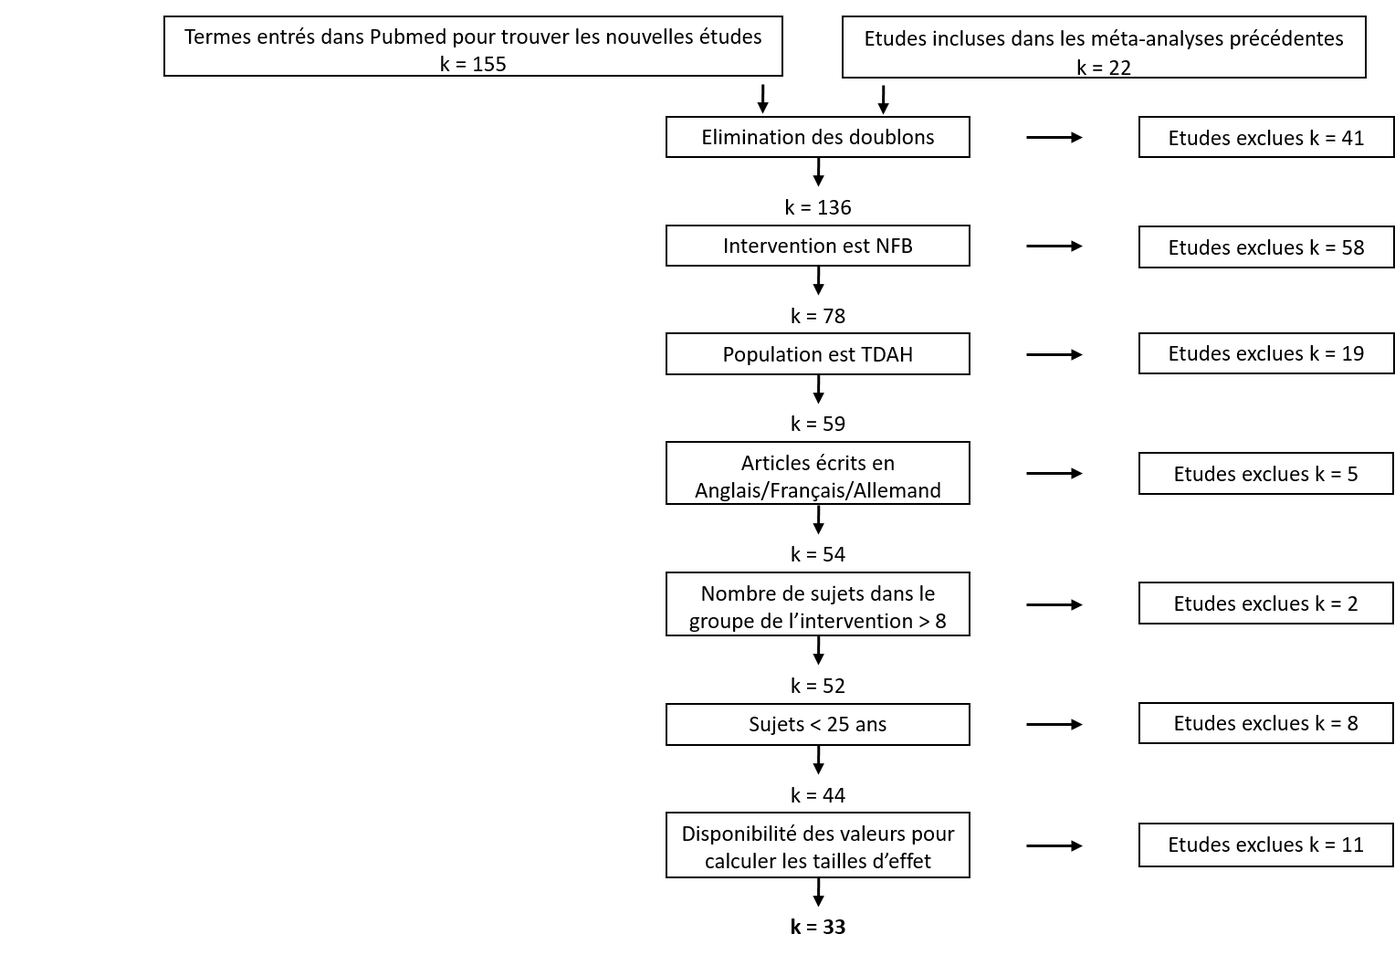
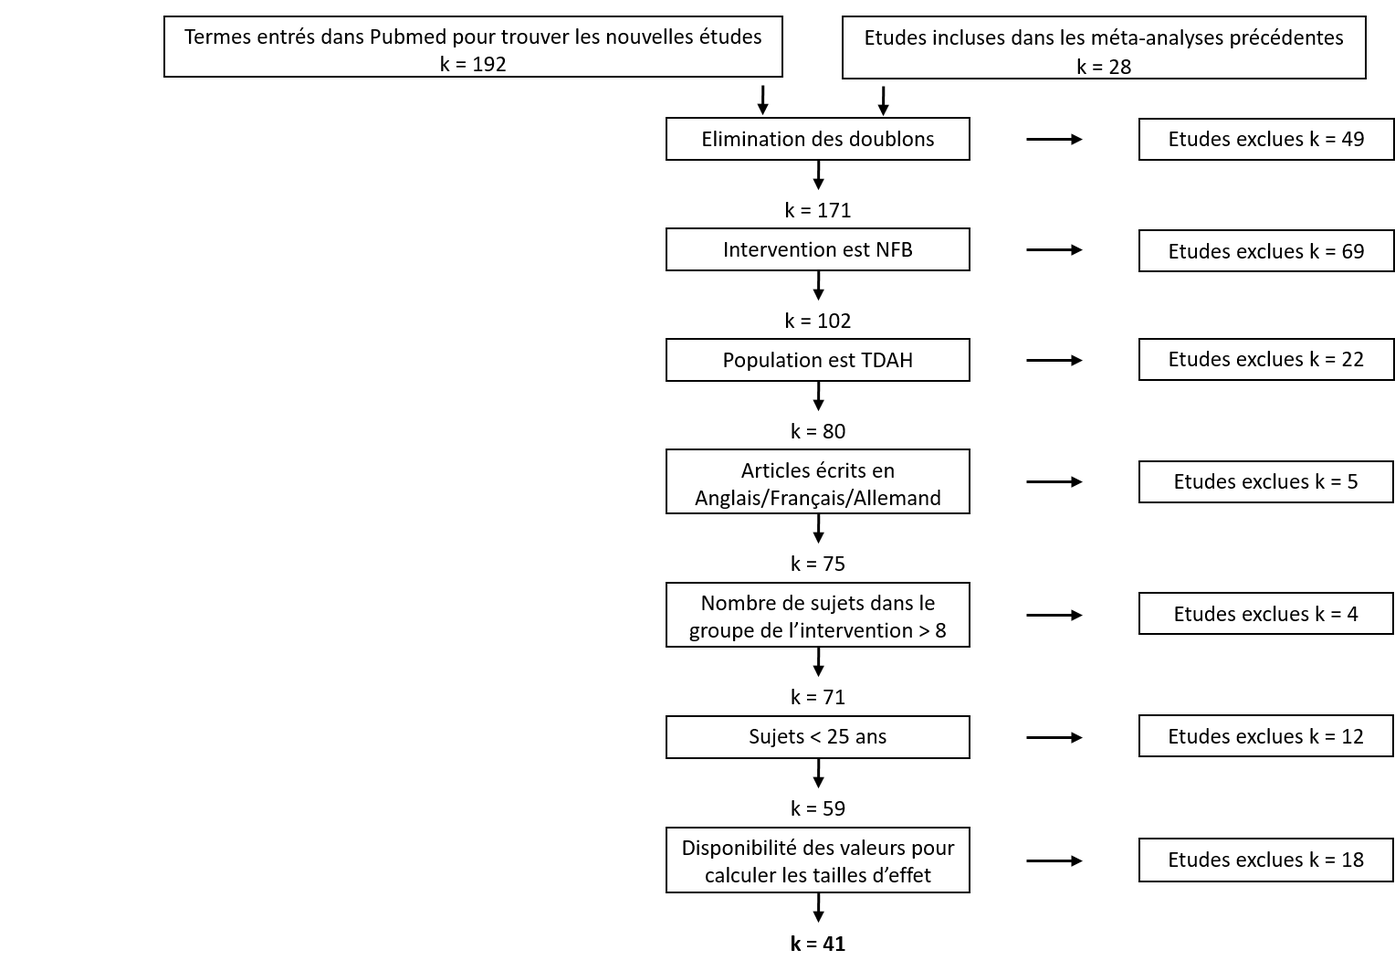
methods updated

diff --git a/chapter_3.tex b/chapter_3.tex
@@ -23,8 +23,8 @@ suivant les étapes décrites en \ref{preprocessing}.
 \subsection{Choix des facteurs} \label{choix_des_facteurs}
 
 Tout d'abord, une revue de littérature et des discussions avec des experts du \gls{nfb} appliqué aux enfants \gls{tdah}, en particulier le Dr. Jean-Arthur Micoulaud Franchi
-et le Dr. Louis Mayaud, ont permis de déterminer les facteurs dont il serait intéressant d'étudier l'influence \citep{Vernon2004, Arns2009, Arns2014, Cortese2016, Enriquez2017}. Ces facteurs sont, pour
-la plupart, spécifiques à l'entrainement par \gls{nfb} et sont définis avec plus de précision en \ref{principe_nfb}.
+et le Dr. Louis Mayaud, ont permis de déterminer les facteurs dont il serait intéressant d'étudier l'influence \citep{Vernon2004, Arns2009, Arns2014, Cortese2016, Enriquez2017}. Les facteurs 
+spécifiques à l'entrainement par \gls{nfb} sont définis avec plus de précision en \ref{principe_nfb}.
 
 Les paramètres ayant une possible influence sur l'efficacité perçue du \gls{nfb} ont été répartis en cinq catégories :
 \renewcommand{\labelitemi}{$\bullet$}
@@ -38,6 +38,8 @@ Les paramètres ayant une possible influence sur l'efficacité perçue du \gls{n
     \end{itemize}
 Ces paramètres ne sont pas spécifiques de l'entrainenement par \gls{nfb} mais pourraient avoir une influence sur les résultats.
 En effet, \citet{Ros2019} appellent notamment à employer un groupe contrôle et à avoir recours à des évaluateurs aveugles afin d'améliorer la qualité des études.
+Le fait qu'une étude soit validée par un \gls{irb} rend compte de la qualité de l'implémentation méthodologique : les études dépourvues d'un \gls{irb} sont
+condidérées d'une qualité moindre et donc plus sujettes aux divers biais d'implémentation.  
 \item \emph{la population :} 
     \begin{itemize}
     \item la prise de psychostimulants durant le traitement par \gls{nfb}, 
@@ -45,8 +47,8 @@ En effet, \citet{Ros2019} appellent notamment à employer un groupe contrôle et
 		\item la sévérité des symptômes du TDAH à pré-test (score clinique à pré-test divisé par le score maximal à atteindre sur l'échelle clinique), 
 		\item le degré d'engagement dans l'entrainement par \gls{nfb} (observance thérapeutique et ressenti vis à vis du traitement).
     \end{itemize}
-Certaines de ses caractéristiques ont déjà été étudiées, en particulier l'impact de la prise de psychostimulants durant l'entrainement par \gls{nfb} dans
-\citet{Cortese2016} et ses mises à jour (\citep{Bussalb2019clinical} et celle en \ref{selection_studies}) et également discuté par \citet{VanDoren2017}.
+Certaines de ses caractéristiques ont déjà été indivividuellement étudiées, en particulier l'impact de la prise de psychostimulants durant l'entrainement par \gls{nfb} dans
+\citet{Cortese2016} et ses mises à jour (\citep{Bussalb2019clinical} et celle en \ref{selection_studies}) et également discutées par \citet{VanDoren2017}.
 \item \emph{l'implémentation du \gls{nfb} :} 
     \begin{itemize}
     \item le protocole utilisé (\gls{scp}, \gls{smr}, l'augmentation du rythme theta, l'augmentation du rythme beta dans les aires centrale ou frontale 
@@ -104,7 +106,7 @@ comme valide notamment au niveau de la normalisation des variables et de la vali
 Les auteurs des études incluses dans la \gls{saob} ne précisent pas systématiquement toutes les valeurs des facteurs, ce qui conduit à des observations manquantes. 
 Afin que les paramètres pour lesquels peu d'observations sont disponibles ne faussent l'analyse, il est apparu raisonnable de considérer qu'au-delà de 20\%
 d'observations manquantes ce paramètre est exclu. Les observations manquantes dans les facteurs comportant des valeurs numériques sont 
-imputées et remplacées par -1.
+imputées et remplacées par -1 pour la méthode du \gls{dt} et par la moyenne des valeurs du facteur pour la \gls{wls} et le \gls{lasso} décrits en \ref{saob_method}. 
 
 Par ailleurs, comme cette analyse tire avantage de l'hétérogénéité des études, si un facteur a plus de 80\% d'observations identiques, 
 celui-ci est également rejeté. 
@@ -149,17 +151,29 @@ de tous les \gls{es}-intra-groupe calculés ont été retirées de l'analyse \ci
 
 Par la suite, l'ensemble des \gls{es}-intra-groupe est considéré comme la variable dépendante que les variables indépendantes (les facteurs) vont expliquer. 
 
-\subsection{L'analyse systématique des biais}
+\subsection{L'analyse systématique des biais} \label{saob_method}
 
 La \gls{saob} comporte trois méthodes qui ont été implémentées à l'aide des bibliothèques Python Scikit-Learn \citep[version 0.18.1]{Pedregosa2011} et Statsmodels \citep[version 0.8.0]{Seabold2010} : 
 \begin{itemize}
-  \item une régression linéaire multiple et pondérée (\gls{wls} en anglais) \citep{Montgomery2012},
-	\item une régression linéaire régularisée (\gls{lasso} en anglais) \citep{Tibshirani1996},
-	\item un arbre de décision de régression (\gls{dt} en anglais) \citep{Quinlan1986}.
+    \item une régression linéaire multiple et pondérée (\gls{wls} en anglais) \citep{Montgomery2012},
+	  \item une régression linéaire régularisée (\gls{lasso} en anglais) \citep{Tibshirani1996},
+	  \item un arbre de décision de régression (\gls{dt} en anglais) \citep{Quinlan1986}.
 \end{itemize}
+
+La \gls{wls} a été choisie car son équivalent non pondéré (l'\gls{ols}) est très connue car couramment utilisée. Par ailleurs, cette méthode est très proche de la méta-régression qui est 
+parfois mise en place dans les méta-analyses pour quantifier la relation entre une variable indépendante et une variable dépendante \citep{Cortese2016, Borenstein2009}. 
+
+Le \gls{lasso} est également une régression mais permet de sélectionner clairement les variables indépendantes ayant une influence sur la variable dépendante. 
+
+Enfin, une méthode non linéaire, le \gls{dt} de regression, est employée car elle permet d'ordonner les variables indépendantes selon leur influence sur la variable dépendante. 
+Par ailleurs, un seuil de décsion est calculé, ce qui permet d'avoir une idée de la valeur à partir de laquelle le facteur a une influence positive sur l'efficacité du \gls{nfb}.
 
 Les résultats de ces trois méthodes intrinsèquement différentes vont être combinés : si un facteur est identifié par les trois méthodes, alors son influence sur l'efficacité du 
 \gls{nfb} est plus probable que si une seule méthode l'identifie. 
+
+Il a été décidé d'utiliser trois méthodes car celles choisies sont suffisammment différentes pour mener à des conclusions intéressantes : si malgré leurs dissimilitudes 
+elles sont d'accord sur l'influence d'un facteur alors on peut raisonnablement conclure que cette influence est fortement probable. Il aurait été possible
+d'avoir recours à plus de méthodes mais étant donné l'aspect novateur de cette approche, il semblait préférable de ne pas complexifier le message en utilisant trop de méthodes.
 
 \subsubsection{La régression linéaire multiple et pondérée}
 La régression linéaire a pour but d'estimer les coefficients de régression qui lient les facteurs aux \gls{es}-intra-groupe. Ici, la régression est pondérée pour, d'une part, 
@@ -177,37 +191,111 @@ Mathématiquement, la \gls{wls} se traduit ainsi :
 \label{eq:factors_model_WLS}
 \textbf{W}y = \textbf{WX}\beta + \epsilon.
 \end{equation}
-$\textbf{X}$ est une matrice inversible $(n \times p)$ et représente $n$ observations sur chaque $p-1$ variable indépendante et l'intercept, 
-$\beta$ est un vecteur $(p \times 1)$ des coefficients de régression associés, $\textbf{W}$ est une matrice diagonale $(n \times n)$  
+$\textbf{X}$ est une matrice inversible $(n \times q)$ et représente $n$ observations sur chaque $p$ variable indépendante et l'intercept ($q = p + 1$), 
+$\beta$ est un vecteur $(q \times 1)$ des coefficients de régression associés et l'intercept, $\textbf{W}$ est une matrice diagonale $(n \times n)$  
 des poids $w_{i}$, $y$ est un vecteur $(n \times 1)$ des variables dépendantes et $\epsilon$ est un vecteur $(n \times 1)$ d'erreurs.
 
 Le but de la \gls{wls} est d'estimer le vecteur de coefficients $\beta$ en minimisant la somme pondérée des carrés des résidus (\gls{wrss} en anglais) :
 \begin{equation}
 \label{eq:factors_WRSS}
-\text{WRSS} = \sum_{i=1}^{n} w_i \Big(y_i - \beta_{0} - \sum_{j=1}^{p}\beta_{j}x_{ij}\Big)^2.
+\text{WRSS} = \sum_{i=1}^{n} w_i \Big(y_i - \hat{y}_i\Big)^2, 
 \end{equation}
+avec $\hat{y}_i = \beta_{0} + \sum_{j=1}^{p}\beta_{j}x_{ij}$, les valeurs prédites.
 
 Une fois le vecteur $\beta$ estimé, on cherche à savoir si les hypothèses du modèle sont vérifiées : 
 \begin{itemize}
-	\item la matrice ${\textbf{X}}^{T}\textbf{W}^{T}\textbf{WX}$ est régulière,
-  \item aucune corrélation apparente n'est trouvée entre les variables indépendantes non catégorielles, 
-  \item la tendance linéaire estimée est trouvée significative en se basant sur la statistique F,
-  \item les résidus sont distribués normalement en se basant sur le kurtosis et le test Omnibus.
+    \item la matrice ${\textbf{X}}^{T}\textbf{W}^{T}\textbf{WX}$ est régulière (c'est à dire qu'elle est inversible : il existe une matrice \textbf{B} appelée matrice inverse de 
+		${\textbf{X}}^{T}\textbf{W}^{T}\textbf{WX}$ telle que B = $({\textbf{X}}^{T}\textbf{W}^{T}\textbf{WX})^{-1}$),
+    \item la tendance linéaire estimée est trouvée significative en se basant sur la statistique F,
+    \item les résidus sont distribués normalement en se basant sur l'asymétrie (\textit{skewness} en anglais), le Kurtosis et le test Omnibus.
 \end{itemize} 
 
+La statistique F est le résultat du test statistique où l'hypothèse nulle est que tous les coefficients de régression sont égaux à 0. Ce test est effectué en calculant 
+la statistique F \citep{James2013} :
+
+\begin{equation}
+\label{eq:factors_statistic_F}
+\text{F} = \frac{ (\text{WTSS} - \text{WRSS}) / p }{ \text{WRSS} /(n - p - 1) }, 
+\end{equation}
+avec $\text{WTSS} = \sum_{i=1}^{n} w_i(y_i - \bar{y})^2$, la somme totale des carrés des résidus (\gls{wtss} en anglais) et $\bar{y}$ la moyenne 
+pondérée par les $w_i$ des $y_i$. 
+
+La p-value associée à la statistique F est calculée à partir de la F-distribution, qui est une distribution de probabilités de la statistique F, obtenue si $H_{0}$ 
+est vraie et si les résidus sont distribués normalement.
+
+Afin de déterminer si les résidus sont distribués normalement, la \textit{skewness}, le Kurtosis et le test Omnibus sont utilisés \citep{dagostino1973, dagostino1971, Bowman1975}.
+
+La \textit{skewness} $\gamma$ rend compte d'à quel point la forme générale d'une distribution diffère de celle d'une distribution normale : 
+\begin{equation}
+\label{eq:factors_skewness}
+\kappa = E \Big[ \Big(\frac{ Y - \mu }{ \sigma }\Big)^{3} \Big], 
+\end{equation}
+avec $E$ la valeur attendue, $Y$ la variable aléatoire, $\mu$ la moyenne de la population et $\sigma$ l'écart-type de la population.
+
+La \textit{skewness} d'une distribution normale vaut 0.
+
+En pratique, la \textit{skewness} est estimée dans la population en calculant la \textit{skewness} pour un échantillon. On suppose alors
+que la variable aléatoire est distribuée uniformément :
+
+\begin{equation}
+\label{eq:factors_skewness_estimation}
+g_{1} = \frac{ \mu_{3} } {s^3},
+\end{equation}
+avec $\mu_{3}$ le troisième moment central de l'échantillon et $s$ l'écart-type de l'échantillon.
+
+Le Kurtosis $\kappa$ quantifie à quel point les formes des queues de la distribution diffèrent par rapport à une distribution normale :
+\begin{equation}
+\label{eq:factors_kurtosis}
+\kappa = E \Big[ \Big(\frac{ Y - \mu }{ \sigma }\Big)^{4} \Big], 
+\end{equation}
+avec $E$ la valeur attendue, $Y$ la variable aléatoire, $\mu$ la moyenne de la population et $\sigma$ l'écart-type de la population.
+
+Le Kurtosis d'une distribution normale est de 3, cependant le Kurtosis est parfois exprimé en tant qu'excès de Kurtosis :
+\begin{equation}
+\label{eq:factors_kurtosis_excess}
+g_{2} = \frac{ \mu_{4} } {s^4}, 
+\end{equation}
+avec $\mu_{4}$ le troisième moment central de l'échantillon et $s$ l'écart-type de l'échantillon.
+
+Ainsi, avec les valeurs de kurtosis et de skewness on peut quantifier d'à quel point la distribution des résidus diffère 
+d'une distribution normale. Afin de savoir si cette différence est significative, le test Omnibus peut être utilisé. 
+
+Ce test se base sur les valeurs de la \textit{skewness} et le Kurtosis pour tester l'hypothèse $H_{0}$ qui est que les résidus sont distribués normalement.
+Pour ce faire, il regroupe les variables aléatoires pour la \textit{skewness} et le Kurtosis en un seul test statistique :
+\begin{equation}
+\label{eq:factors_omnibus_statistic}
+K = Z_{1}(g_{1})^2 + Z_{2}(g_{2})^2, 
+\end{equation}
+avec $K$ la statistique du test Omnibus, $g_{1}$ la variable aléatoire de la \textit{skewness} et
+$g_{2}$ la variable aléatoire de l'excès de Kurtosis, et $Z_{1}$ et $Z_{2}$ des fonctions de transformation qui ont pour but de rendre 
+les distributions de $g_{1}$ et $g_{2}$ normales.
+
 Si toutes ces hypothèses sont satisfaites, alors les résultats de la \gls{wls} peuvent être interprétés. A l'aide d'un t-test, on détermine  
-parmi les coefficients $\beta_{j}$ où $1<j<p$, ceux qui sont significativement différent de 0 (avec un seuil de significativité égal à 0.05) : 
+parmi les coefficients $\beta_{j}$ où $1<j<p$, ceux qui sont significativement différent de 0 (avec un seuil de signifiance de 5\%) : 
 pour ces coefficients, le facteur qui leur est associé est supposé avoir une influence sur l'efficacité du \gls{nfb}. Par ailleurs, 
 le signe du coefficient indique si cette influence est positive ou négative. 
 
 Etant donné le nombre important de variables indépendantes, le pourcentage de variance estimée par la \gls{wls} est quantifié par le coefficient de 
-détermination ajusté (\textit{adjusted R-Squared} en anglais) plutôt que par le coefficient de détermination simple (\textit{R-Squared} en anglais).
+détermination ajusté, $R^2_{adjusted}$ (\textit{adjusted R-Squared} en anglais) plutôt que par le coefficient de détermination simple $R^2$ (\textit{R-Squared} en anglais)
+définis respectivement aux équations Eq.~(\ref{eq:factors_R_squared}) et Eq.~(\ref{eq:factors_adjusted_R_squared}) du fait du nombre important de variables indépedantes \citep{James2013}.
+\begin{equation}
+\label{eq:factors_R_squared}
+R^2 = \frac{ \text{WTSS} - \text{WRSS} }{ \text{WTSS} }, 
+\end{equation}
+
+\begin{equation}
+\label{eq:factors_adjusted_R_squared}
+R^2_{adjusted} = 1 - \frac{ (1 - R^2) (n - 1) }{ n - p - 1 }, 
+\end{equation}
+avec $n$ le nombre d'observations et $p$ le nombre de variables indépendantes.
+
 
 Une régression linéaire ordinaire (\gls{ols} en anglais) est aussi mise en place pour observer l'impact des poids sur les résultats. 
 
 \subsubsection{La régression linéaire régularisée}
 
 La deuxième méthode appliquée lors de la \gls{saob} est le \gls{lasso} qui intègre la sélection de variables dans le modèle linéaire grâce à la norme $\ell_1$ appliquée aux coefficients.
+La norme $\ell_1$ est préférable ici à la norme $\ell_2$ utilisée dans la régression de Ridge \citep{James2013} car elle peut mettre des coefficients à 0. 
 Les coefficients $\hat{\beta}_{j}$ ($1<j<p$) sont obtenus en minimisant le coût :
 \begin{equation}
 \label{eq:factors_lasso-minimization}
@@ -216,11 +304,22 @@ Les coefficients $\hat{\beta}_{j}$ ($1<j<p$) sont obtenus en minimisant le coût
 où $\lambda$ est le paramètre de régularisation qui, en augmentant, met de plus en plus de coefficients à 0. 
 
 Le paramètre de régularisation optimal est déterminé par une validation croisée \textit{leave-one-out}. Cette méthode prend une seule observation 
-comme donnée de test pour la validation, laissant $n-1$ observations pour les données d'entraînement. Le processus de la validation croisée est ensuite répété $n$ fois pour que chaque observation 
-soit utilisée exactement une fois comme donnée de test. Pour chaque itération, appelée \textit{fold} en anglais, l'erreur quadratique moyenne (\gls{mse} en anglais) est calculée sur les données de test
+comme donnée de test pour la validation, laissant $n - 1$ observations pour les données d'entraînement. Le processus de la validation croisée est ensuite répété $n$ fois pour que chaque observation 
+soit utilisée exactement une fois comme donnée de test. 
+
+Pour chaque itération, appelée \textit{fold} en anglais, l'erreur quadratique moyenne (\gls{mse} en anglais) définie à l'équation Eq.
+~(\ref{eq:factors_mse}) est calculée sur les données de test
 puis les $n$ résultats sont moyennés pour mener à une seule observation qui permet de trouver le $\lambda$ optimal. Celui-ci correspond à l'abscisse du minimum de la \gls{mse} 
-du \textit{fold} moyen calculée sur un large intervalle de $\lambda$ \citep{James2013}.
-Un coefficient non mis à 0 signifie que le facteur associé pourrait avoir une influence sur l'efficacité du \gls{nfb} et, ici aussi, le signe du coefficient indique la direction de l'effet. 
+du \textit{fold} moyen calculée sur un large intervalle de $\lambda$ \citep{James2013}. 
+
+\begin{equation}
+\label{eq:factors_mse}
+\text{MSE} = \frac{1}{n}\sum_{i=1}^{n} \Big(\hat{y}_i - {y}_i\Big)^2,
+\end{equation}
+avec $\hat{y}$ les valeurs prédites.
+
+Un coefficient non mis à 0 signifie que le facteur associé pourrait avoir une influence sur l'efficacité du \gls{nfb} et, ici aussi, 
+le signe du coefficient indique la direction de l'effet.
 
 \subsubsection{L'arbre de décision de régression}
 
@@ -228,18 +327,13 @@ La troisième et dernière méthode utilisée est le \gls{dt} de régression qui
 linéaire \citep{Quinlan1986}. Elle divise l'ensemble des observations en sous-ensembles de plus en plus petits en se basant sur la présence 
 d'une variable qualitative ou sur la comparaison à un seuil appliqué à une variable quantitative. La position de la variable indépendante utilisée (et le
 choix du seuil de comparaison dans le cas d'une variable quantitative) pour subdiviser l'ensemble des données est déterminée de façon à minimiser la
-\gls{mse} définie comme suit :
-
-\begin{equation}
-\label{eq:factors_decision_tree_mse}
-\text{MSE} = \frac{1}{n}\sum_{i=1}^{n} \Big(\hat{y}_i - {y}_i\Big)^2,
-\end{equation}
-avec $\hat{y}$ les valeurs prédites.
+\gls{mse} définie à l'équation Eq.~(\ref{eq:factors_mse}) :
 
 La première variable utilisée pour diviser l'ensemble des données se situe dans le noeud racine (\textit{root node} en anglais), les autres
 variables qui mènent à une nouvelle subdivision sont dans des noeuds, et les noeuds où la division s'arrête sont appelés
 feuilles (\textit{leaf nodes}) de l'arbre. La profondeur de l'arbre peut être définie par le nombre d'observations minimal nécessaire
-pour diviser un sous ensemble. Un arbre exemple est schématisé à la Figure~\ref{Figure:factors_decision_tree_example}.
+pour diviser un sous-ensemble. Ce critère a été utilisé ici de façon arbitraire : un noeud comportant moins de 10\% d'observations devient une feuille. 
+Un arbre exemple est schématisé à la Figure~\ref{Figure:factors_decision_tree_example}.
 
 \begin{figure}[h!]
   \centering
@@ -255,13 +349,15 @@ les facteurs se retrouvent dans les noeuds : leur influence sur l'efficacité du
 obtenue après chaque division mais aussi par leur place dans l'arbre. En effet, plus un facteur est en haut de l'arbre plus les divisions se font sur un grand nombre
 d'observations, ainsi son impact sur l'efficacité est davantage probable.
 
-\section{Analyse des facteurs influençant le Neurofeedback} %update avec dernière analyse
+\section{Analyse des facteurs influençant le Neurofeedback} 
 
 Les résultats de la \gls{saob} sont présentés ici. Cette méthode, dont les premières étapes (i.e. la sélection des études et le calcul des \gls{es}) rappellent
 la méta-analyse, se distingue de cette dernière par l'utilisation de méthodes multivariées. Celles-ci tirent avantage de l'hétérogénéité des études
 sur le \gls{nfb} appliqué aux enfants \gls{tdah} pour déterminer les facteurs ayant un impact sur la performance du \gls{nfb}.
 
 \subsection{Sélection des études} \label{selection_studies}
+
+\subsubsection{Méthode de sélection}
 
 Les termes entrés dans Pubmed pour la recherche des articles à inclure dans la \gls{saob} sont :
 (ADHD OR adhd OR attention deficit disorder with hyperactivity OR minimal brain disorders OR syndrome hyperkinetic OR hyperkinetic
@@ -272,17 +368,29 @@ attention deficit disorder OR hyperkinetic syndromes OR syndromes hyperkinetic O
 (randomized control trial OR RCT OR randomized control study OR Pilot Study OR Study OR Trial OR randomized trial) AND 
 (neurofeedback OR “EEG biofeedback” OR neurotherapy OR SCP OR “slow cortical potentials” OR Theta Beta Ratio OR “TBR”). 
 
-La dernière recherche effectuée le 12 février 2018 avec ces termes a retourné 155 résultats, auxquels se sont ajoutés 22 articles inclus dans les précédentes 
-méta-analyses sur le \gls{nfb} appliqué aux enfants \gls{tdah} \citep{Arns2009, Sonuga-Barke2013, Micoulaud2014, Cortese2016, Catala2017}. Afin de sélectionner
-les études à inclure dans la \gls{saob}, les 177 résultats ont été filtrés à l'aide du pipeline représenté à la 
-Figure~\ref{Figure:factors_pipeline_selection_studies}. Au final $k$ = 33 études ont été retenues, qui correspondent par ailleurs au critère d'inclusion de
+Cette recherche est proche de celle conduite dans le \ref{chapitre-2} lors de la mise à jour de la méta-analyse de \citet{Cortese2016} à la différence
+qu'ici aucun terme ne porte sur les groupes contrôles. En effet, alors que \citet{Cortese2016} n'incluait que des \gls{rct} avec des exigences précises
+sur les groupes contrôles énoncées en \ref{selection_studies}, la \gls{saob} inclut les études sur le \gls{nfb} appliqué aux enfants 
+\gls{tdah} sans tenir compte de la présence d'un groupe contrôle et du type de contrôle. 
+
+Ainsi, le critère d'inclusion de \citet{Cortese2016} a été élargi : la \gls{saob} se concentrant sur l'efficacité du \gls{nfb} au sein du 
+groupe suivant le traitement grâce à l'\gls{es}-intra-groupes défini en \label{es_within}, les pré-requis concernant les groupes contrôles 
+ne sont pas nécessaires.
+
+\subsubsection{Résultats de la sélection}
+
+La dernière recherche effectuée le 2 septembre 2019 avec ces termes a retourné 192 résultats, auxquels se sont ajoutés 28 articles inclus dans les précédentes 
+méta-analyses sur le \gls{nfb} appliqué aux enfants \gls{tdah} \citep{Arns2009, Sonuga-Barke2013, Micoulaud2014, 
+Cortese2016, Catala2017, VanDoren2019, Riesco2019, Bussalb2019clinical}. 
+Afin de sélectionner les études à inclure dans la \gls{saob}, les 220 résultats ont été filtrés à l'aide du pipeline représenté à la 
+Figure~\ref{Figure:factors_pipeline_selection_studies}. Au final $k$ = 41 études ont été retenues, qui correspondent par ailleurs au critère d'inclusion de
 \citet{Cortese2016} sans les exigences sur les groupes contrôles. 
 
 \newpage\
 \begin{figure}[h!]
   \centering
 	\includegraphics[width=1.0\linewidth]{figures/chapter-3/factors-selection-studies} 
-  \caption{Diagramme de sélection des études pour l'analyse systématique des biais (dernière recherche le 12 fevrier 2018).} 
+  \caption{Diagramme de sélection des études pour l'analyse systématique des biais (dernière recherche le 2 septembre 2020).} 
   \label{Figure:factors_pipeline_selection_studies}
 \end{figure}
 
@@ -381,7 +489,6 @@ Table~\ref{Table:table_factors_analysis_results_summary}.
 Les hypothèses de ce modèle sont respectées, les résultats sont interprétables :
 \begin{itemize}
 	\item la matrice ${\textbf{X}}^{T}\textbf{W}^{T}\textbf{WX}$ est bien régulière,
-  \item aucune corrélation apparente n'est effectivement trouvée entre les variables indépendantes non catégorielles, 
   \item la tendance linéaire estimée est trouvée significative (Prob(F-statistic) = 7.58e-08),
   \item les résidus sont distribués normalement (kurtosis = 3.154 et Prob(Omnibus) = 0.392).
 \end{itemize}
@@ -463,6 +570,8 @@ Jeunet2018, Arns2009, Cortese2016, Alkoby2017}. Cependant, à notre connaissance
 multivariée pour associer les facteurs aux résultats cliniques. La rigueur et la transparence lors de la conduite d'essais cliniques sur l'efficacité
 du \gls{nfb} est essentielle pour comprendre son effet sur les fonctions cérébrales et le comportement comme le soulignent \citet{Ros2019} lors de l'élaboration
 de leur liste de bonnes pratiques. 
+
+% limitations : seulement trois méthodes mais utiliser plus de méthodes dans une nouvelle analyse aurait pu rendre le message plus confus. 
 
 \subsection{Facteurs et efficacité du \gls{nfb}}
 
